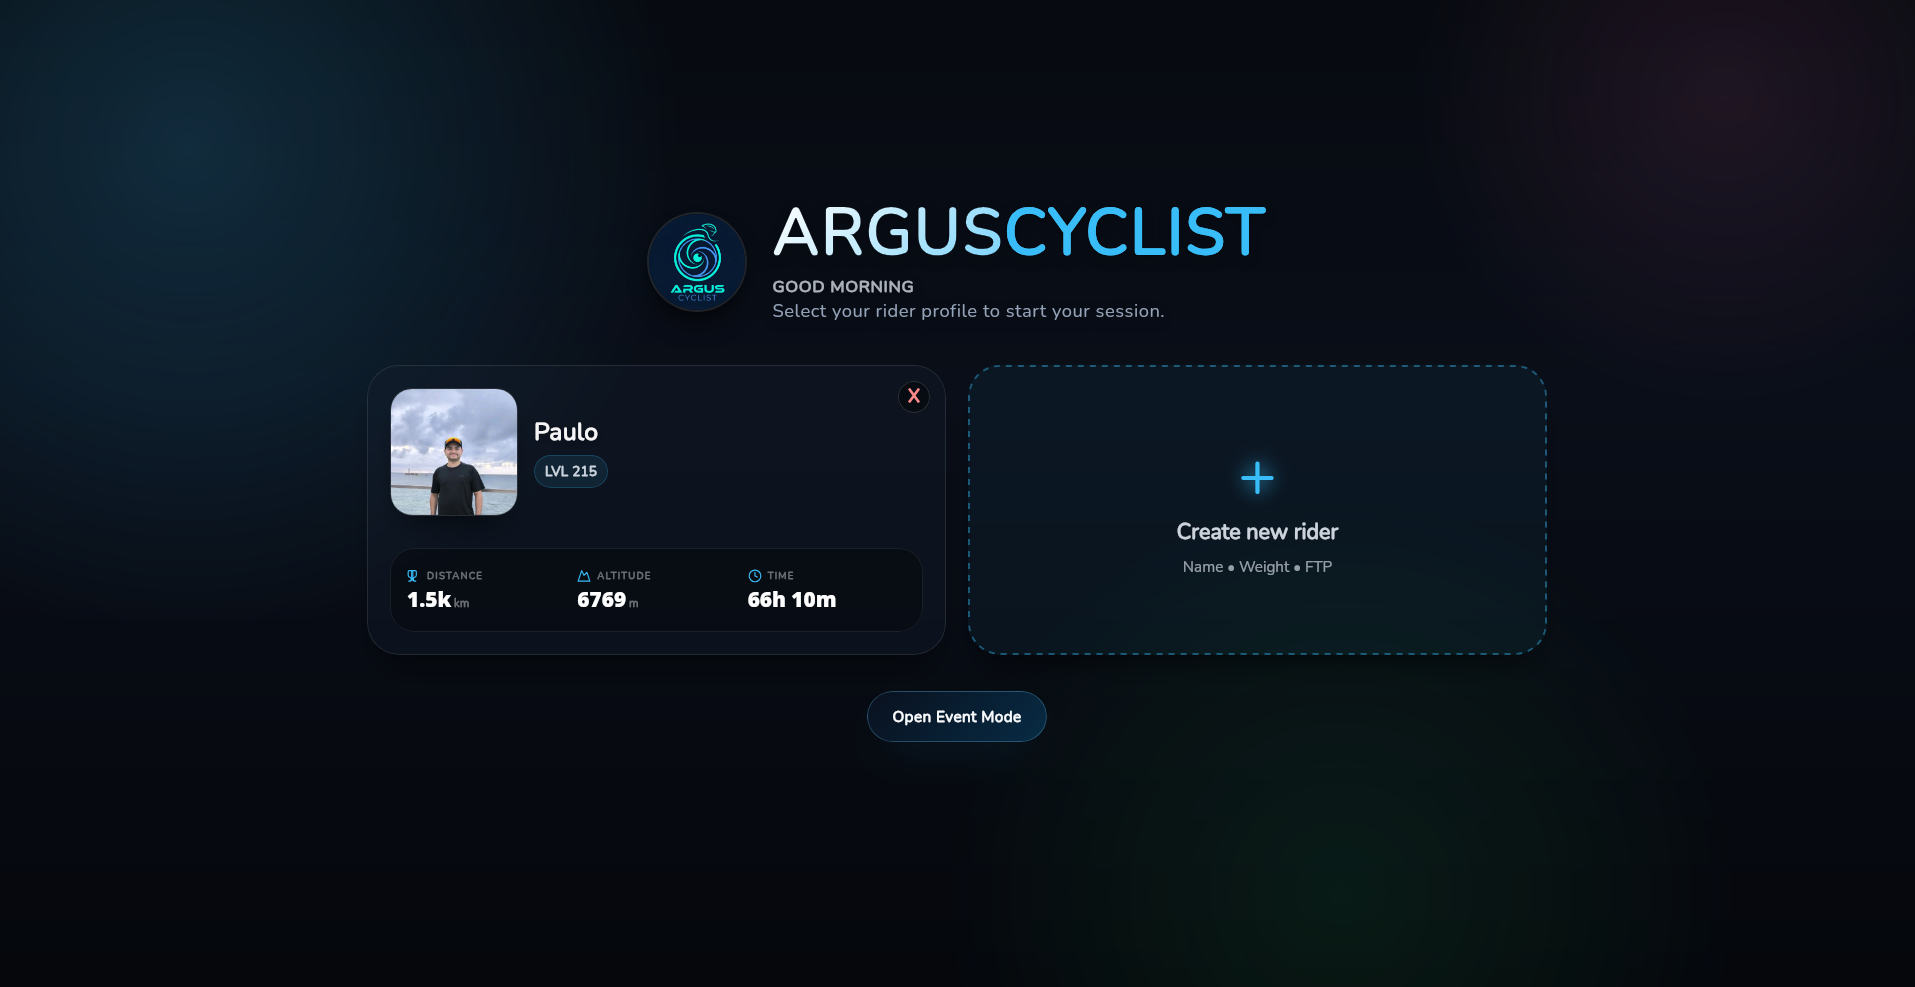
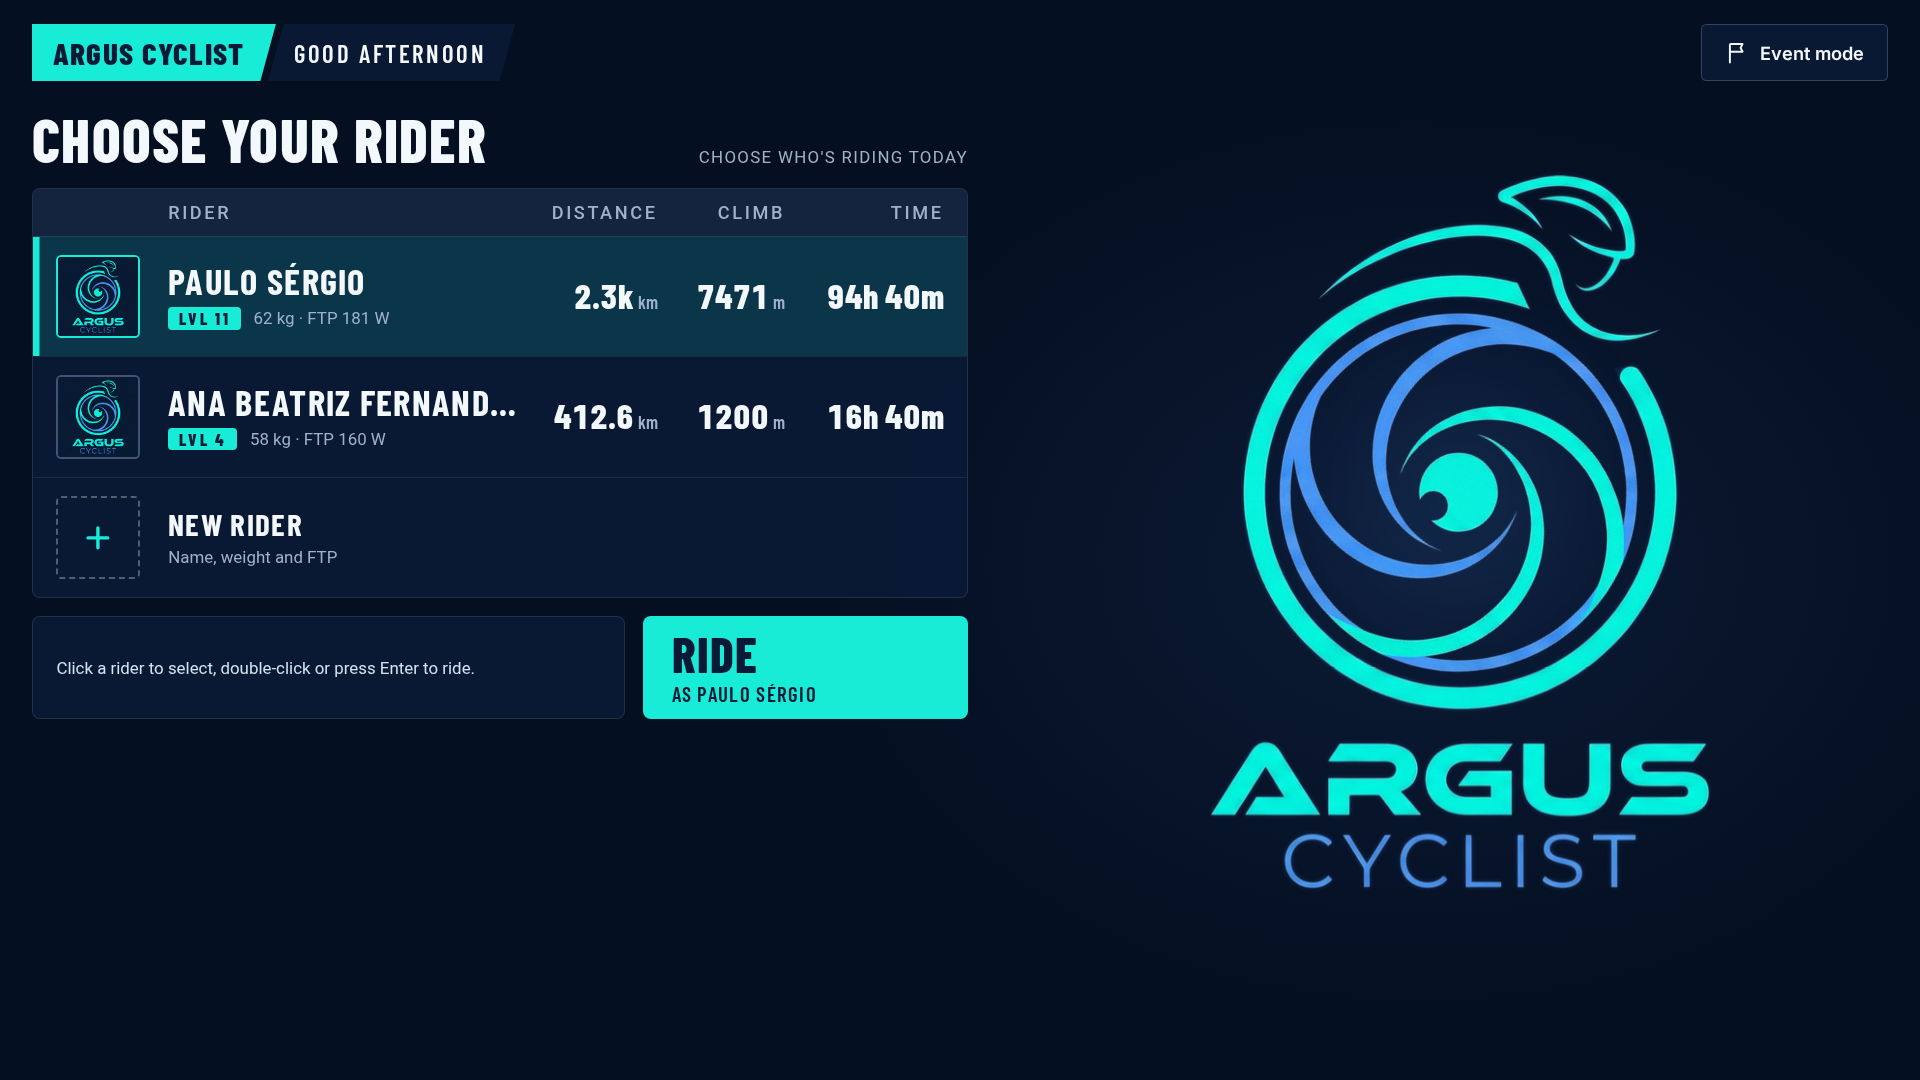
docs(readme): new screenshots and sections for the broadcast UI, 3D world and event mode

Changed region(s): [[0.0, 0.0, 0.8935, 0.8207], [0.8627, 0.0, 0.9859, 0.1216], [0.4621, 0.6991, 0.5546, 0.7599]]

diff --git a/README.md b/README.md
@@ -4,29 +4,62 @@
 ![Go](https://img.shields.io/badge/Backend-Go-00ADD8?logo=go&logoColor=white)
 ![Wails](https://img.shields.io/badge/Framework-Wails-red?logo=wails&logoColor=white)
 ![JavaScript](https://img.shields.io/badge/Frontend-JavaScript-F7DF1E?logo=javascript&logoColor=black)
+![WebGL](https://img.shields.io/badge/3D-WebGL%202-990000?logo=webgl&logoColor=white)
 ![MapLibre](https://img.shields.io/badge/Map-MapLibre-brightgreen)
 ![Capacitor](https://img.shields.io/badge/Mobile-Capacitor-119EFF?logo=capacitor&logoColor=white)
 ![Node.js](https://img.shields.io/badge/Runtime-Node.js-339933?logo=nodedotjs&logoColor=white)
 
-**Argus Cyclist** is a cross-platform open-source software for indoor cycling simulation, offering real-time communication with smart trainers, 3D map visualization, and support for multiple training modes such as free ride and structured workouts. Now available for both Desktop and Mobile!
+**Argus Cyclist** is a cross-platform open-source software for indoor cycling simulation. It talks to smart trainers in real time, renders your ride in a live 3D world or on a real 3D map, and supports free rides, structured workouts, physiological assessments and an event mode built for fairs and open days. Available for Desktop and Mobile.
 
 ## Screenshots
 
-### Desktop Experience
-
-| Home & Profile Selection | Profile & Cloud Integrations | History & Stats |
+| Choose your rider | Free Ride in the 3D world | Free Ride on the real map |
 | :---: | :---: | :---: |
-| ![Home Screen](./frontend/screenshots/screenshot-01-home.png) | ![Profile & Devices](./frontend/screenshots/screenshot-02-profile.png) | ![History & Calendar](./frontend/screenshots/screenshot-03-history.png) |
-| **Career Dashboard (PMC)** | **Activity Telemetry & Analysis** | **Structured Workout Plan** |
-| ![Career Dashboard](./frontend/screenshots/screenshot-04-career.png) | ![Activity Telemetry](./frontend/screenshots/screenshot-05-telemetry.png) | ![Workout Plan](./frontend/screenshots/screenshot-06-workout.png) |
-| **Trophy Room** | **Studio Mode** | **Event Mode** |
-| ![Trophy Room](./frontend/screenshots/screenshot-07-trophy.png) | ![Studio Mode](./frontend/screenshots/screenshot-08-studio.png) | ![Event Mode](./frontend/screenshots/screenshot-09-event.png) |
+| ![Home](./frontend/screenshots/screenshot-01-home.png) | ![Free Ride 3D](./frontend/screenshots/screenshot-02-ride-3d.png) | ![Free Ride map](./frontend/screenshots/screenshot-03-ride-map.png) |
+| **Live dashboard & workout plan** | **Studio mode** | **Athlete: profile & devices** |
+| ![Dashboard](./frontend/screenshots/screenshot-04-dashboard.png) | ![Studio](./frontend/screenshots/screenshot-05-studio.png) | ![Profile](./frontend/screenshots/screenshot-06-profile.png) |
+| **Athlete: history & records** | **Athlete: career (PMC)** | **Activity analysis** |
+| ![History](./frontend/screenshots/screenshot-07-history.png) | ![Career](./frontend/screenshots/screenshot-08-career.png) | ![Activity](./frontend/screenshots/screenshot-09-activity.png) |
+| **Trophy room** | **Event mode: start list** | **Event mode: ranking** |
+| ![Trophy room](./frontend/screenshots/screenshot-10-trophy.png) | ![Event start list](./frontend/screenshots/screenshot-11-event.png) | ![Event ranking](./frontend/screenshots/screenshot-12-ranking.png) |
+
+## Interface
+
+The whole software follows one visual standard, taken from the sports-broadcast look of the event mode and coloured after the Argus logo.
+
+* **One palette for every screen:** deep navy panels, aqua for actions and for *you*, blue for references (record ghost, targets), and the classic power-zone colours. Numbers use Barlow Condensed with tabular digits, text uses Inter (both bundled, no internet needed).
+* **Panels over the scene:** while riding, the 3D world or the map fills the window and the data sits in panels at the corners: ride state, time, route, rider metrics and the elevation profile.
+* **Elevation profile:** drawn at the screen's real resolution (HiDPI and scaled screens stay sharp), placed by real distance so the position cursor lines up, and coloured by the grade measured over ~100 m (green up to 3%, yellow 3–6%, orange 6–9%, red above 9%, blue descents).
+* **Responsive layout:** checked from 1024×768 to 2560×1440; on big screens (TV / 1080p and up) the panels scale up, on narrow windows the top bar tools collapse to icons.
+* **Languages:** the Free Ride software is in English; the event mode screens are in Portuguese for the public at the fair.
+* **In-app dialogs:** confirmations, errors and text inputs use the app's own dialog (keyboard friendly, destructive questions start on *Cancel*) instead of the system pop-ups.
+* **First-run tutorial:** a short guided tour of the main features, available again from the athlete area.
+
+## Live 3D World
+
+* **Custom WebGL 2 scene:** a low-poly "Litoral Potiguar" coastal world (dunes, ipê trees, cacti, wind turbines) with an animated rider, rendered by a dependency-free WebGL 2 engine. It works fully offline.
+* **Follows your ride:** speed and pedalling come from the trainer; the rider sprints when power goes well above FTP.
+* **Cameras:** chase, drone and cinematic views (press **C** to cycle).
+* **Graphics quality:** low, medium and high presets (1×, 1.5× and 2× render resolution) to fit the computer.
+* **Race furniture:** in event races the road follows the course elevation profile, start and finish gates are placed on the course, distance-to-go boards appear every 100 m and the record ghost rides next to you.
+
+## Event Mode (fairs and open days)
+
+A self-contained mode for running short challenges with the public, with its own start list, ranking and operator controls.
+
+* **Start list:** pick the event, type the athlete's name, category and weight, and press **LARGAR**. The right side shows the animated Argus logo while visitors wait.
+* **Sprint 200 m:** flat, all-out, fastest time wins. The record ghost starts next to you.
+* **Climb 400 m:** 3% to 6% grade; the trainer resistance follows the slope and the rider's weight counts.
+* **Zone Challenge 60 s:** one minute to score points; higher power zones score more per second, and holding Z5+ unlocks the top multiplier. To be fair to every visitor, the zones are scaled to the weight measured on the scale (reference FTP = 2.5 W/kg × weight) instead of a fixed FTP.
+* **Broadcast HUD:** countdown, live classification tower, gap to the record, and a finish screen with podium; the result screen hands over to the next athlete after 20 seconds.
+* **Rankings by category:** overall, female and male rankings per event, with an operator reset per event.
+* **Fair Mode (operator lock):** blocks the virtual simulator so only real trainer efforts reach the ranking.
 
 ## Cross-Platform: Now on Mobile (Android)
 
 Argus Cyclist isn't just for desktop anymore. Powered by **Capacitor.js**, the simulator now runs natively on Android devices, transforming your smartphone into a high-end cycling head unit.
 
-* **Immersive Mobile HUD:** A fully responsive, landscape-forced "gaming mode" UI featuring glassmorphism elements to maximize 3D map visibility.
+* **Immersive Mobile HUD:** A fully responsive, landscape-forced "gaming mode" UI to maximize map visibility.
 * **Native Bluetooth LE:** Direct connection to smart trainers and heart rate monitors using the mobile device's built-in Bluetooth antenna.
 * **JS Physics Engine:** A dedicated JavaScript physics engine ensures accurate speed calculations (accounting for drag, rolling resistance, and gravity) directly on the mobile device, without requiring the Go backend.
 * **Local File Parsing:** Import `.GPX` routes and `.ZWO` workout plans natively from your phone's storage.
@@ -34,40 +67,48 @@ Argus Cyclist isn't just for desktop anymore. Powered by **Capacitor.js**, the s
 ## Simulation & Connectivity
 
 * **Smart Trainer Support (BLE):** Controls trainers over Bluetooth LE using FTMS (desktop) or FE-C messages carried over BLE (desktop and Android), and reads Cycling Power and Heart Rate sensors. Native ANT+ (USB dongle) is not supported. Tested with a ThinkRider X2 MAX.
+* **Built-in Simulator:** A virtual trainer lets you try every screen without hardware.
 * **Physics Engine:** Real-time speed calculation based on power (Watts), rider weight, bike weight, rolling resistance, and aerodynamic drag.
 * **Grade Simulation:** The trainer automatically adjusts resistance based on the virtual terrain slope.
 * **Cloud Integrations (optional):** Manual upload to Strava (OAuth 2.0, with automatic token refresh and one retry on 401) and to Intervals.icu (API key). A sync-queue table exists in the schema, but background retries are not implemented yet.
 * **Session Recovery:** The active session is snapshotted to disk every few seconds; after a crash, the next start offers to recover it and save the `.FIT` file.
-* **Studio Mode:** A dedicated trainer-focused view with a clean, telemetry-only HUD dashboard. Optimized for indoor studio workouts, featuring real-time interval targets, power zones, and countdowns without the 3D map.
-* **Event Mode:** Compete in virtual challenges (Sprints, KOMs, or Time Trials) with strict validation rules and local leaderboard rankings.
+
+## Training
+
+* **Live Dashboard:** Big metric row (power, heart rate, cadence, speed, distance, time) and a live telemetry chart of power, heart rate and cadence.
+* **Structured Workouts:** Load `.ZWO` plans and let ERG mode set the power of each block. The workout plan panel shows the target, the time left in the block, the intensity (adjustable ±5%), the zone-coloured block list and the overall progress.
+* **Studio Mode:** A full-screen, telemetry-only view for indoor sessions: current block and target, big power with the current zone, time to the next block, intensity controls and workout progress.
+* **Fitness Assessments:** Ramp Test, 20-minute FTP Test and 5-minute VO2max protocols, with a confirmation of the baseline FTP the test is scaled from.
+* **Route Editor:** Draw custom routes by clicking on the map and save them as `.GPX`.
+
+## Athlete Area
+
+* **Multi-Profile System:** Create and manage multiple riders on the same device. Each profile has its own level, XP, FTP, weight settings, and activity history. Riders are chosen from a start-list style home screen.
+* **Profile & Devices:** Personal data (weight, bike weight, FTP, heart-rate thresholds), trainer control mode (simulation or ERG), device connections and cloud integrations in one tab.
+* **History:** Totals, recent activities, a monthly calendar and your power records (MMP).
+* **Career Dashboard:** Track your long-term evolution with the Performance Management Chart (PMC), mapping your Fitness (CTL), Fatigue (ATL), and Form (TSB), plus an Aerobic Decoupling (Pw:HR) history for rides over one hour (under 5% means a solid aerobic base).
+* **Bike Components:** Wear tracking per component (see below), as a regular tab of the athlete area.
+* **Safe rider deletion:** A rider can only be deleted from inside their own athlete area, never from the home list, and never while a ride is recording.
 
 ### Gamification & Progression
 
-* **Multi-Profile System:** Create and manage multiple riders on the same device. Each profile has its own separate level, XP, FTP, weight settings, and activity history.
-* **Leveling System:** Earn **XP (Experience Points)** passively by riding.
-* **Dynamic Rewards:** Gain more XP for climbing and covering long distances.
+* **Leveling System:** Earn **XP (Experience Points)** passively by riding, with more XP for climbing and long distances.
 * **Persistent Profile:** Your stats (Level, Total XP, FTP, Weight) are saved locally using SQLite.
-* **Visual HUD:** Real-time XP bar and power zones.
-* **Trophy Room & Custom Goals:** Setup personal training targets (Distance, Elevation, or Saddle Time) with specific deadlines and track progress in real-time. Unlocked achievements are colorfully rendered in the interactive Trophy Room.
-* **Balanced Achievement System:** 11 consistency, recovery, routine, exploration, balance, and health cardiovascular milestones (Daily Habit, Consistency Champion, Rest is Training, Active Recovery, Early Bird, Night Owl, Quick Spin, Explorer, Master Explorer, Perfect Harmony, Cardio Recovery Master) with live toast notifications.
+* **Trophy Room & Custom Goals:** Set personal training targets (Distance, Elevation, or Saddle Time) with deadlines and track their progress. Weekly streak counter and achievement cards for distance, climbing, saddle time, activities and power milestones.
+* **Balanced Achievement System:** 11 consistency, recovery, routine, exploration, balance, and cardiovascular milestones (Daily Habit, Consistency Champion, Rest is Training, Active Recovery, Early Bird, Night Owl, Quick Spin, Explorer, Master Explorer, Perfect Harmony, Cardio Recovery Master) with live notifications.
 
-### Immersive 3D Map
+### Real 3D Map
 
 * **MapLibre Integration:** Powered by MapLibre GL JS with raster-DEM 3D terrain (1.5× exaggeration) and a chase camera. Map tiles are fetched online; the simulation itself works offline from the local GPX.
 * **Map Styles:** Three switchable styles: **Satellite** (Esri imagery), **Day** (OpenFreeMap, with 3D buildings) and **Tactical** (dark).
-* **Smart Route Rendering:** Route lines change color dynamically based on gradient (green = flat/descent, then yellow, orange, red and purple as the climb gets steeper).
-* **Occlusion System:** The route renders correctly behind 3D buildings for better depth perception.
+* **Smart Route Rendering:** Route lines change colour with the gradient, and render correctly behind 3D buildings.
 * **Smooth Animation:** Position updates are throttled to 150 ms and the camera eases between them, so movement stays smooth regardless of the sensor rate (~1 Hz).
 
 ### Advanced Analytics & Tools
 
-* **Career Dashboard:** Track your long-term evolution with the Performance Management Chart (PMC), mapping your Fitness (CTL), Fatigue (ATL), and Form (TSB). Also features an Aerobic Decoupling (Pw:HR) tracker to monitor your aerobic base. Includes visual warning indicators (⚠) for high cardiovascular drift (> 5%) during steady-state workouts.
-* **Deep Activity Analysis:** Review your rides with advanced metrics including Normalized Power (NP), Intensity Factor (IF), TSS, TRIMP, and Heart Rate Recovery (HRR1/HRR2 in 1 and 2 minutes post-workout). Dive into live telemetry charts with VT1/VT2 markers and detailed Power Curve (MMP) bar charts.
-* **Post-Ride Summary:** Instant feedback upon workout completion with core stats and a quick "Upload to Strava" action.
-* **Route Editor:** Create custom routes directly inside the app by clicking points on the map.
-* **GPX & Structured Workouts:** Ride real-world routes by importing `.GPX` files or train efficiently with visual ERG mode targets using imported plans.
-* **Fitness Assessments:** Take structured fitness tests (such as Ramp Test and standard FTP Test) to assess your performance zones.
-* **Activity History:** Calendar view, monthly stats, and recent rides list.
+* **Deep Activity Analysis:** Review your rides with Normalized Power (NP), Intensity Factor (IF), TSS, TRIMP, aerobic decoupling and Heart Rate Recovery (HRR in 1 and 2 minutes after the ride). Telemetry chart with draggable VT1/VT2 threshold markers and a Power Curve (MMP) chart; export the analysis as PDF or PNG.
+* **Post-Ride Summary:** Instant feedback upon workout completion with core stats, time in power zones, XP earned and quick "Upload to Strava / Intervals.icu" actions.
+* **GPX Routes:** Ride real-world routes by importing `.GPX` files.
 * **Data Export:** Automatically generates `.FIT` files compatible with Strava, Garmin Connect, and TrainingPeaks.
 
 ### AI Coach — Local LLM Training Assistant
@@ -89,10 +130,12 @@ Argus Cyclist isn't just for desktop anymore. Powered by **Capacitor.js**, the s
 ## Technologies
 
 * **Backend:** Go (Golang)
-* **Frontend:** JavaScript (ES6+), MapLibre GL JS + OSRM
+* **Frontend:** JavaScript (ES6+), Vite, MapLibre GL JS + OSRM, Apache ECharts
+* **3D:** Custom WebGL 2 engine (no dependencies)
 * **Native Wrappers:** Wails (Desktop) & Capacitor (Android)
 * **Database:** SQLite (for local user data)
 * **AI:** Ollama (local LLM inference)
+* **Fonts:** Barlow Condensed and Inter (bundled with `@fontsource`)
 
 ## Prerequisites
 
@@ -102,13 +145,14 @@ Before starting, ensure you have installed:
 * [Node.js](https://nodejs.org/) & npm
 * [Wails CLI](https://wails.io/) (`go install github.com/wailsapp/wails/v2/cmd/wails@latest`)
 * [Android Studio](https://developer.android.com/studio) (for mobile compilation)
+* A browser engine with **WebGL 2** for the 3D world (WebView2 on Windows, WebKitGTK 4.1 on Linux)
 
 ## Installation and Setup
 
 1. **Clone the repository:**
 
     ```bash
-    git clone https://github.com/your-username/argus-cyclist.git
+    git clone https://github.com/SoNdA11/argus-cyclist.git
     cd argus-cyclist
     ```
 
@@ -129,8 +173,10 @@ Before starting, ensure you have installed:
 To start the application in development mode (with Hot Reload):
 
 ```bash
-wails dev
+./run-dev.sh
 ```
+
+The script runs `wails dev` with the WebKitGTK 4.1 build tag and skips the production frontend build when one already exists (the dev server serves the UI). Force a full build with `FULL_BUILD=1 ./run-dev.sh`, or call `wails dev` directly on other platforms.
 
 ## Troubleshooting: Windows Bluetooth (BLE)
 
